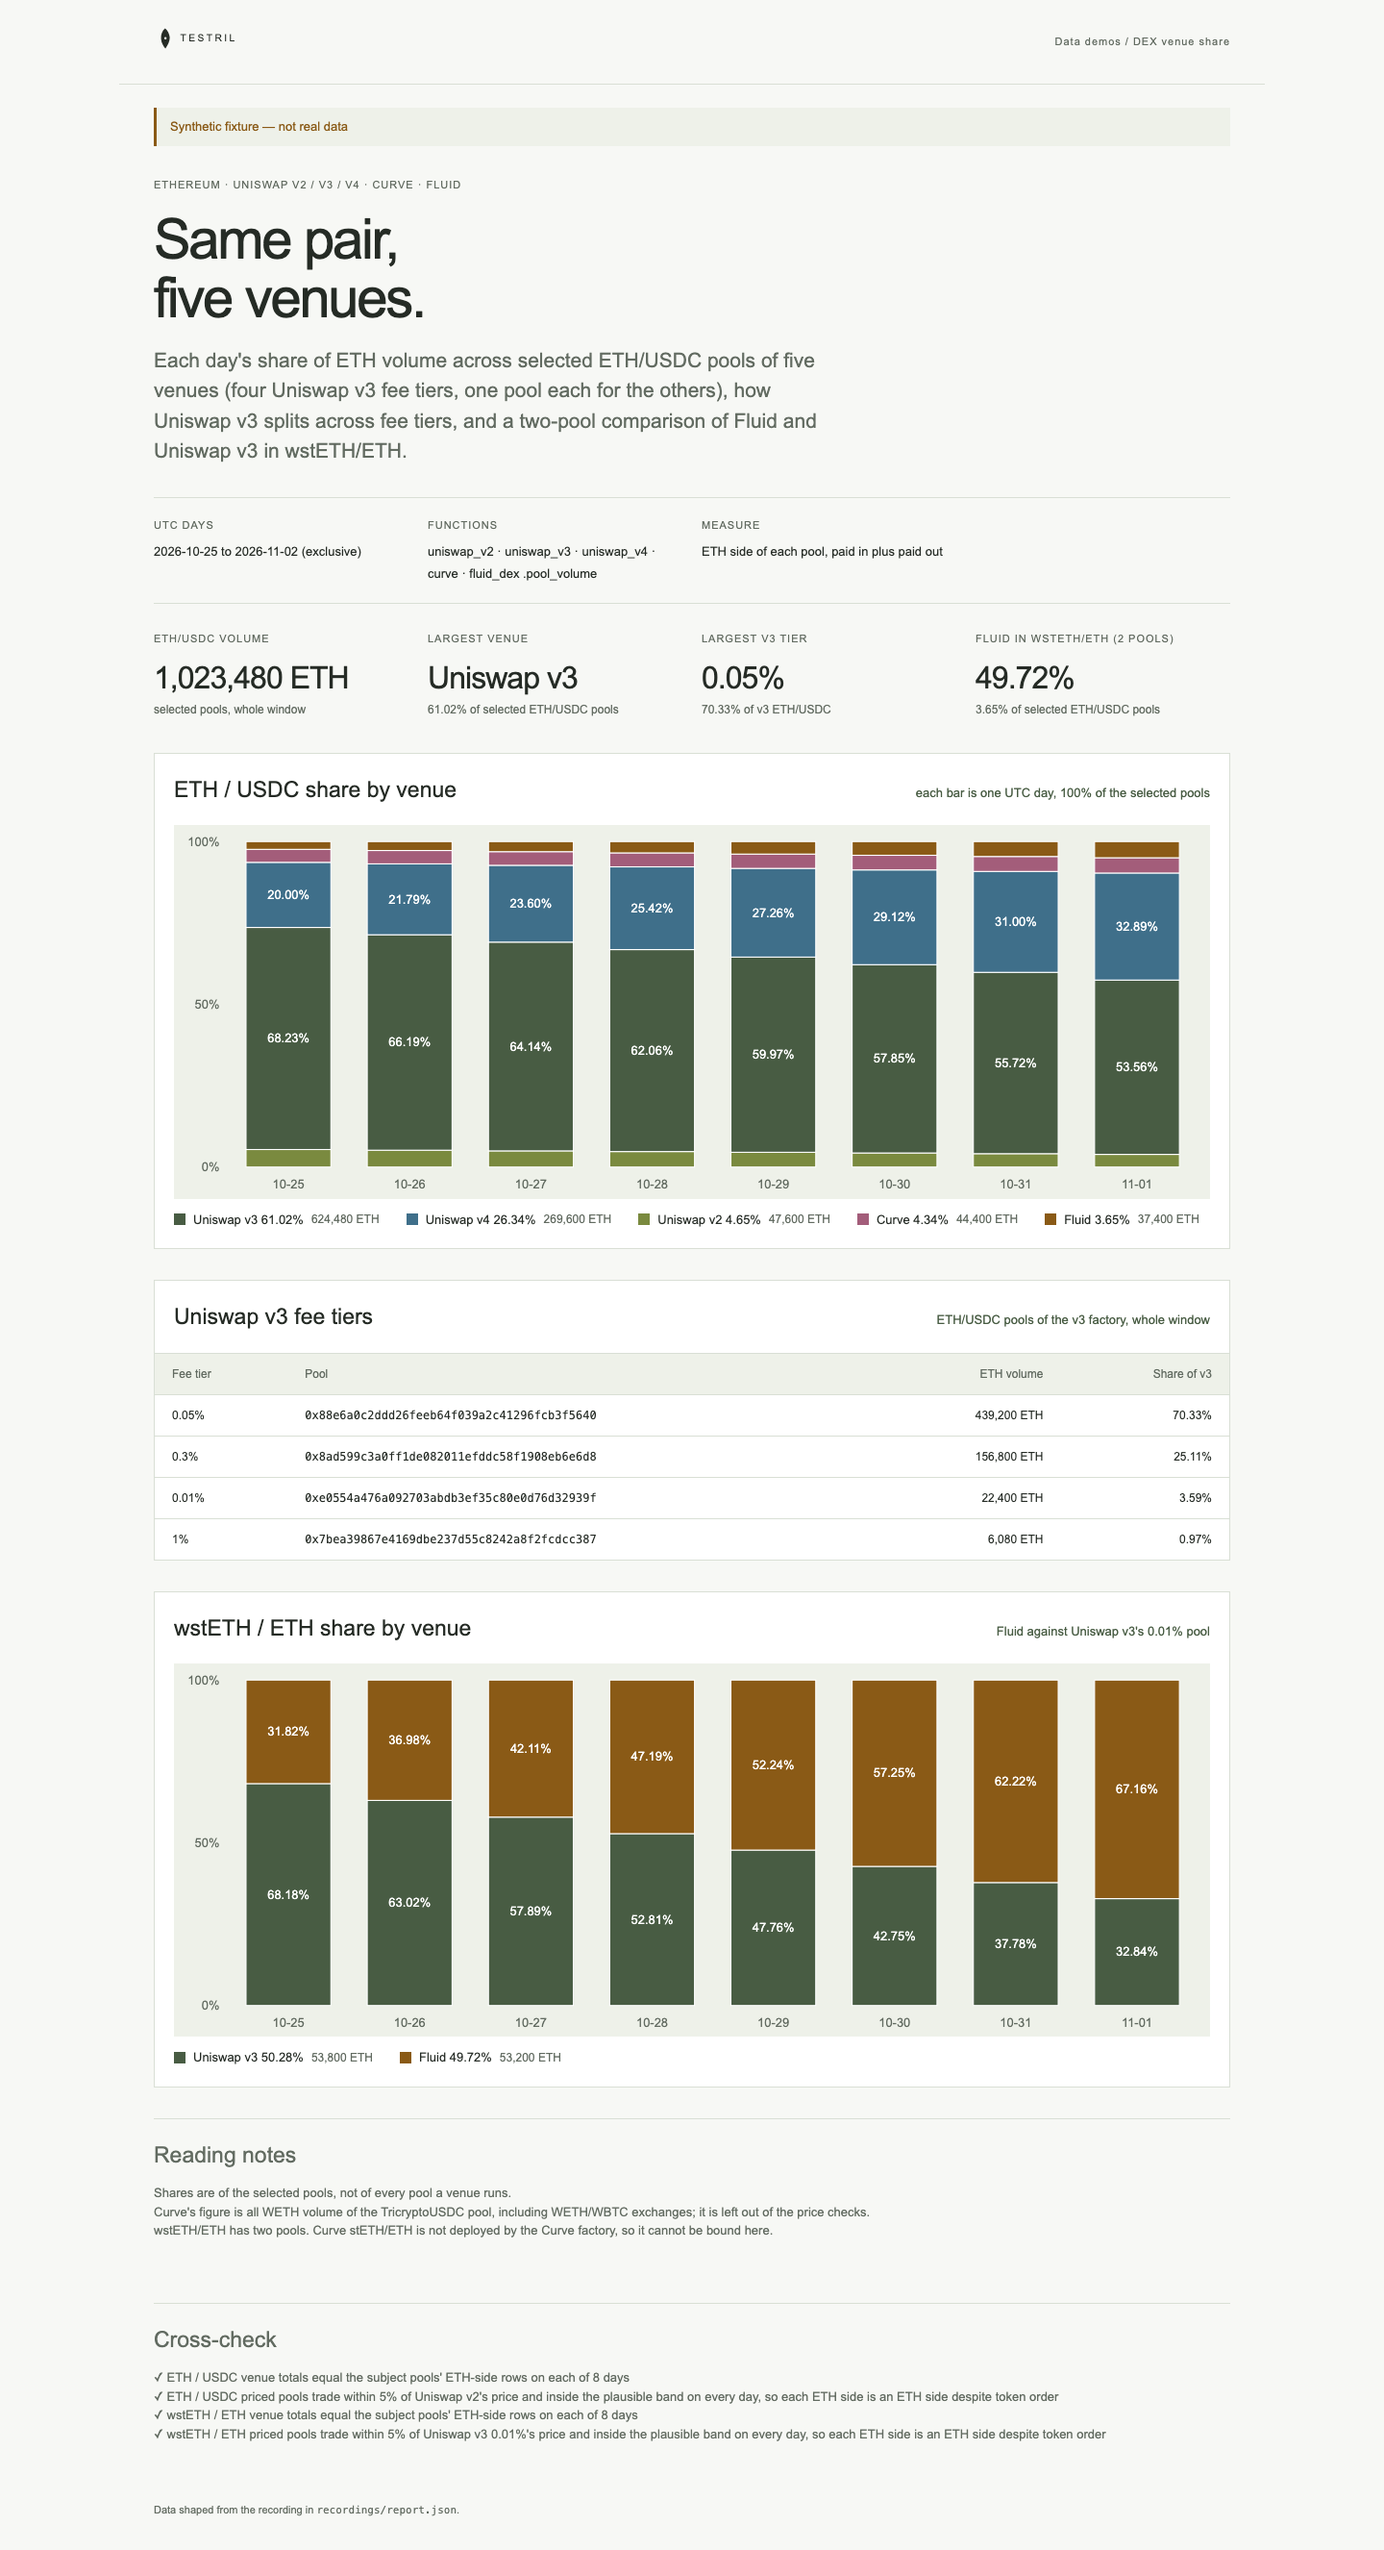
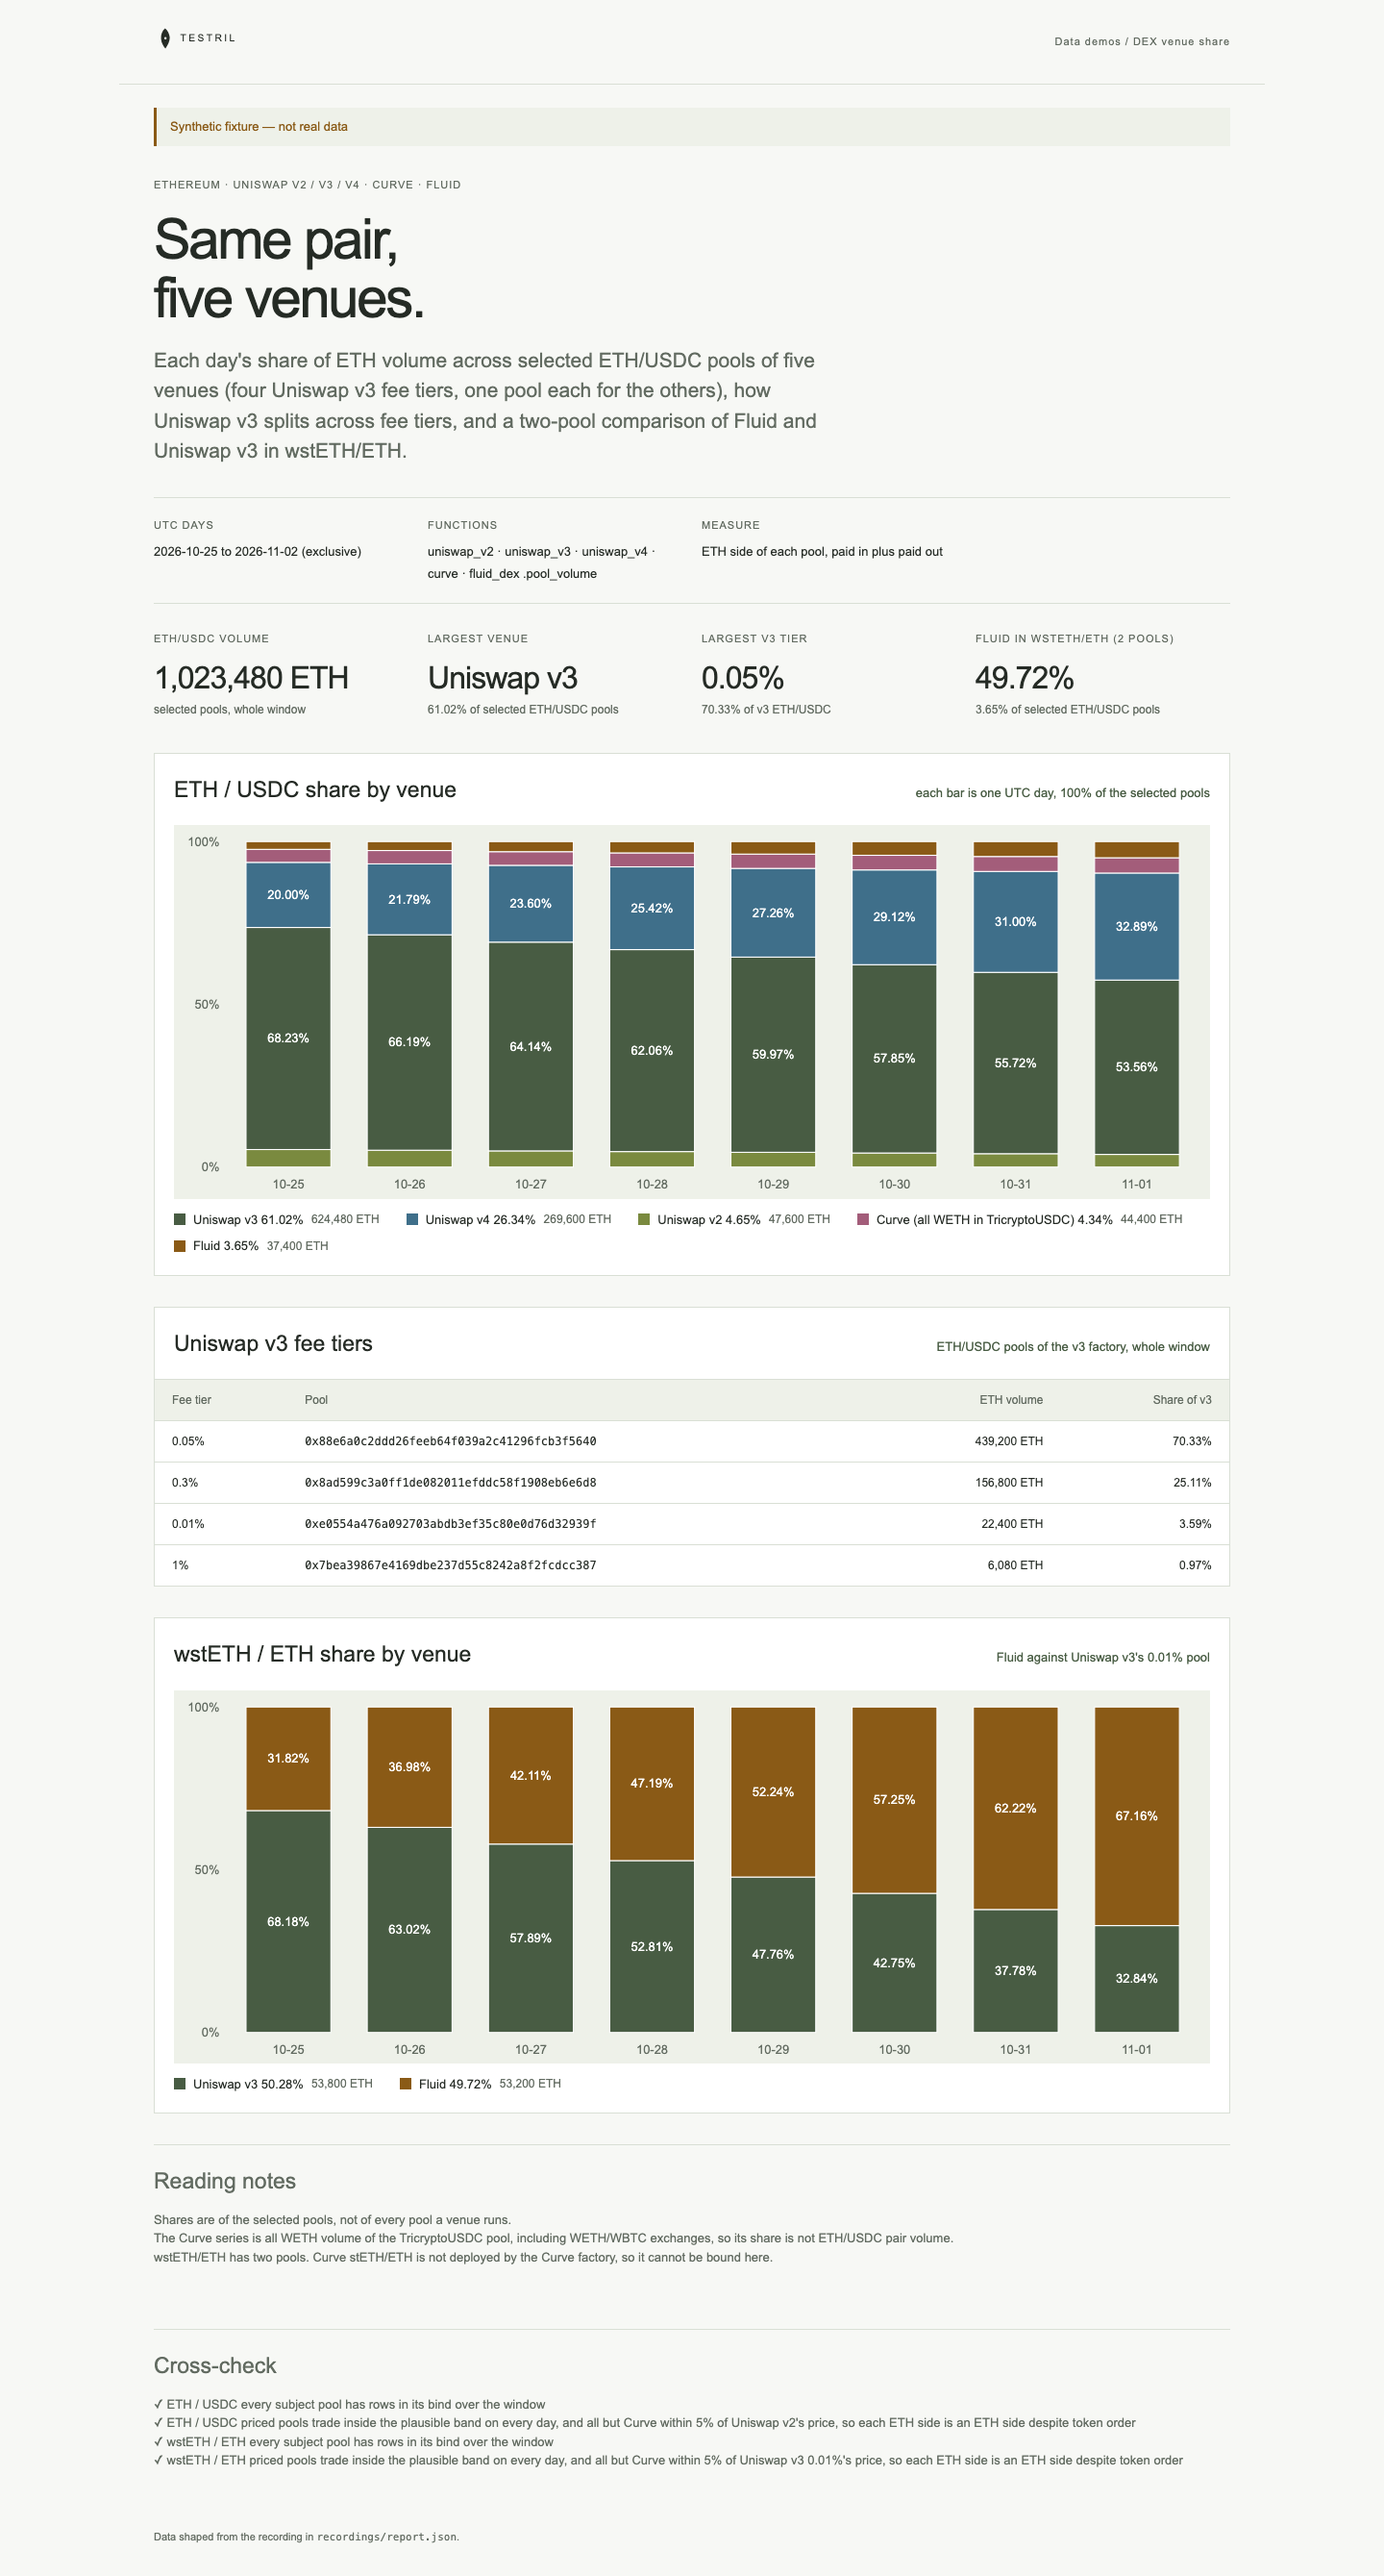
Check subject pool coverage and Curve coin units, label the Curve series

diff --git a/demos/dex-venue-share/public/index.html b/demos/dex-venue-share/public/index.html
@@ -91,8 +91,9 @@
             Shares are of the selected pools, not of every pool a venue runs.
           </li>
           <li>
-            Curve's figure is all WETH volume of the TricryptoUSDC pool,
-            including WETH/WBTC exchanges; it is left out of the price checks.
+            The Curve series is all WETH volume of the TricryptoUSDC pool,
+            including WETH/WBTC exchanges, so its share is not ETH/USDC pair
+            volume.
           </li>
           <li>
             wstETH/ETH has two pools. Curve stETH/ETH is not deployed by the

diff --git a/demos/dex-venue-share/public/app.js b/demos/dex-venue-share/public/app.js
@@ -17,7 +17,7 @@ function element(name, text, className) {
 }
 
 const venueClass = (venue) =>
-  `venue-${venue.toLowerCase().replace(/\W+/g, "-")}`;
+  `venue-${venue.split(" (")[0].toLowerCase().replace(/\W+/g, "-")}`;
 
 function banner(report) {
   const node = document.querySelector("#source");

diff --git a/demos/dex-venue-share/README.md b/demos/dex-venue-share/README.md
@@ -4,8 +4,8 @@ Daily share of ETH volume across selected ETH/USDC pools of Uniswap v2, v3,
 v4, Curve and Fluid on Ethereum (four Uniswap v3 fee tiers, one pool each for
 the others, so shares are of the selected pools, not of each venue), how
 Uniswap v3 splits across its fee tiers, and a two-pool comparison of Fluid and
-Uniswap v3 in wstETH/ETH. The page proves its numbers: each day's venue totals
-must equal the subject pools' ETH-side rows, and every priced pool's USDC (or
+Uniswap v3 in wstETH/ETH. The page proves its numbers: every subject pool must have
+rows (a wrong address fails the check), and every priced pool's USDC (or
 wstETH) per ETH must sit within 5% of the first pool's price and inside a
 broad band (500 to 20,000 USDC per ETH, below 1 wstETH per ETH), which fails
 if a pool's ETH side is read from the wrong token column.
@@ -62,9 +62,11 @@ recording.
   sorts native ETH (address 0) first. These side claims are assumptions to
   check against `fluid_dex.pool_list` and the v4 pool key before recording.
   `src/report.mjs` records which field holds the ETH side of each pool.
-- Curve rows are per coin index and cannot isolate a pair. The Curve figure is
-  all WETH volume (coin 2) of the TricryptoUSDC pool, including WETH/WBTC
-  exchanges, and Curve is left out of the price checks. Pair-level flow would
+- Curve rows are per coin index and cannot isolate a pair. The Curve series,
+  labelled "Curve (all WETH in TricryptoUSDC)", is all WETH volume (coin 2) of
+  the TricryptoUSDC pool, including WETH/WBTC exchanges, so its share is not
+  ETH/USDC pair volume. Its USDC (coin 0) volume covers all that pool's trades,
+  so it is only held to the broad price band, which catches a wrong coin index. Pair-level flow would
   need `curve.exchange`.
 - Uniswap v4 and Fluid count native ETH, the others WETH; the demo treats both
   as ETH.
